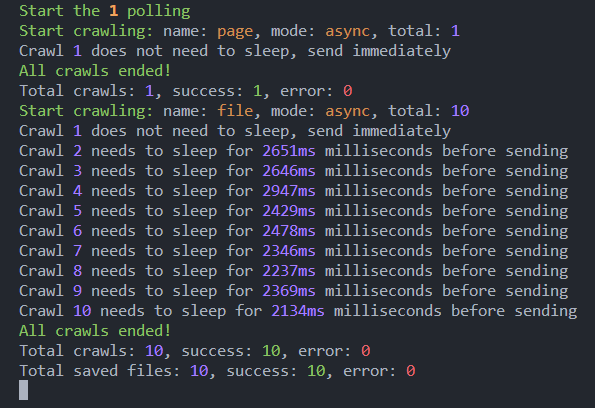
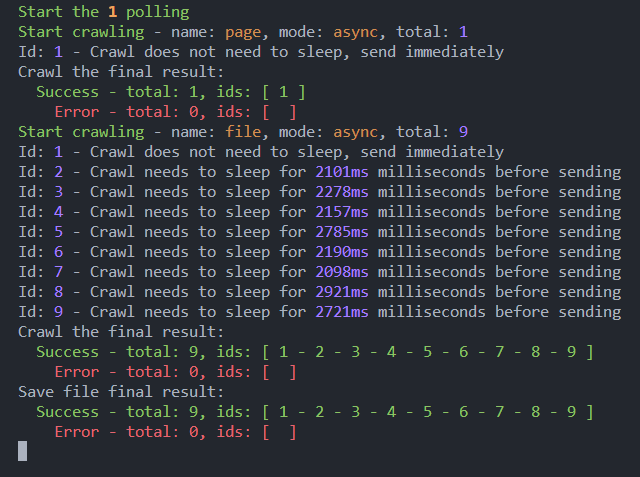
Chores: Adjustments

diff --git a/test/start/index.js b/test/start/index.js
@@ -1,1 +1,1 @@
-"use strict";var e=require("node:path"),t=require("node:fs"),r=require("node:fs/promises"),o=require("puppeteer"),n=require("chalk"),i=require("node:http"),s=require("node:https"),a=require("node:url"),u=require("https-proxy-agent");const c=console.log,l=n.hex("#a57fff"),f=n.green,m=n.red,h=n.yellow;function p(e){return void 0===e}function d(e){return"number"==typeof e}function g(e){return"object"==typeof e&&e&&!Array.isArray(e)}function y(e){return Array.isArray(e)}async function w(e,t,r,o){if(e&&o>1){const e=t?r:function(e,t=0){let r=Math.floor(Math.random()*e);for(;r<t;)r=Math.floor(Math.random()*e);return r}(r.max,r.min);c(`Id: ${l(o)} - Crawl needs to sleep for ${l(e+"ms")} milliseconds before sending`),await function(e){return new Promise((t=>setTimeout(t,e)))}(e)}else c(`Id: ${l(o)} - Crawl does not need to sleep, send immediately`)}async function C(e,t,r,o){const n=!p(t),i=d(t),s=[];for(const a of e){const{id:e}=a;await w(n,i,t,e),a.crawlCount++;const u=o(a,r).catch((e=>(a.errorQueue.push(e),!1))).then((e=>{!1!==e&&(a.isSuccess=!0,a.crawlSingleRes=e)}));s.push(u)}await Promise.all(s)}async function x(e,t,r,o){const n=!p(t),i=d(t);for(const s of e){const{id:e}=s;await w(n,i,t,e),s.crawlCount++;try{s.crawlSingleRes=await o(s,r),s.isSuccess=!0}catch(e){s.errorQueue.push(e)}}}function S(e,t,r){const o=e[t];e[t]=e[r],e[r]=o}function v(e){if(1===e.length)return e;const t=Math.floor(e.length/2),r=v(e.slice(0,t)),o=v(e.slice(t)),n=[];let i=0,s=0;for(;i<r.length&&s<o.length;)r[i]>=o[s]?(n.push(r[i]),i++):(n.push(o[s]),s++);return i<r.length&&n.push(...r.slice(i)),s<o.length&&n.push(...o.splice(s)),n}async function q(e,t,r,o,n,i){const s=(!r.every((e=>e.priority===r[0].priority))?v(r.map((e=>({...e,valueOf:()=>e.priority})))):r).map(((e,t)=>({id:t+1,isSuccess:!1,maxRetry:e.maxRetry,crawlCount:0,errorQueue:[],requestConfig:e,crawlSingleRes:null})));c(`${f("Start crawling")} - name: ${h(e)}, mode: ${h(t)}, total: ${l(s.length)} `);const a="async"===t?C:x;let u=s;for(;u.length;)if(await a(u,o,n,i),u=u.filter((e=>e.maxRetry&&!e.isSuccess&&e.crawlCount<=e.maxRetry)),u.length){const e=u.map((e=>e.id));c(h(`Ids to retry: [ ${e.join(" - ")} ]`))}const p=[],d=[];return s.forEach((e=>{e.isSuccess?p.push(e.id):d.push(e.id)})),c("Crawl the final result:"),c(f(`  Success - total: ${p.length}, ids: [ ${p.join(" - ")} ]`)),c(m(`    Error - total: ${d.length}, ids: [ ${d.join(" - ")} ]`)),s}function R(e,t){let r=e?`${e}`:"?";if(t)for(const e in t){r+=`&${e}=${t[e]}`}else r=e;return r}function T(e){const{protocol:t,hostname:r,port:o,pathname:n,search:c}=new a.URL(e.url),l="http:"===t,f={agent:e.proxy?u(e.proxy):l?new i.Agent:new s.Agent,protocol:t,hostname:r,port:o,path:n,search:R(c,e.params),method:e.method?.toLocaleUpperCase()??"GET",headers:{},timeout:e.timeout};return f.headers=function(e,t){const r={"User-Agent":"Mozilla/5.0 (Windows NT 10.0; Win64; x64) AppleWebKit/537.36 (KHTML, like Gecko) Chrome/109.0.0.0 Safari/537.36",...e.headers??{}};return"POST"===t.method&&e.data&&(r["Content-Type"]="application/json",r["Content-Length"]=Buffer.byteLength(e.data)),r}(e,f),f}async function $(e){const{requestConfig:t}=e;return await(r=t,new Promise(((e,t)=>{const o=p(r.data);r.data=o?r.data:JSON.stringify(r.data);const n=T(r);function a(t){const{statusCode:r,headers:o}=t,n=[];t.on("data",(e=>n.push(e))),t.on("end",(()=>{const t=Buffer.concat(n);e({statusCode:r,headers:o,data:t})}))}let u;u="http:"===n.protocol?i.request(n,a):s.request(n,a),u.on("timeout",(()=>{t(new Error(`Timeout ${r.timeout}ms`))})),u.on("error",(e=>{t(e)})),"POST"!==n.method||o||u.write(r.data),u.end()})));var r}function b(e){return y(e)?e.map((e=>g(e)?e:{url:e})):[g(e)?e:{url:e}]}function j(e,t,r){r.requestConfigs=t.map((t=>{let{url:o,timeout:n,proxy:i,maxRetry:s,priority:a}=t;return p(e.baseUrl)||(o=e.baseUrl+o),p(n)&&(n=p(r.timeout)?e.timeout:r.timeout),p(i)&&!p(e.proxy)&&(i=e.proxy),p(s)&&(s=p(r.maxRetry)?e.maxRetry:r.maxRetry),p(a)&&(a=0),{...t,url:o,timeout:n,proxy:i,maxRetry:s,priority:a}})),p(r.intervalTime)&&!p(e.intervalTime)&&(r.intervalTime=e.intervalTime)}function E(e){let t=null,r=null,n=!1,i=0;const s=new Map;async function a(e,r){const{id:o,requestConfig:n}=e,i=await t.newPage();await i.setViewport({width:1280,height:1024});let a=null;try{n.proxy?await t.createIncognitoBrowserContext({proxyServer:n.proxy}):await t.createIncognitoBrowserContext({proxyServer:void 0}),n.headers&&await i.setExtraHTTPHeaders(n.headers),n.cookies&&await i.setCookie(...function(e,t){const r=[];return"string"==typeof t?t.split("; ").forEach((t=>{const o=t.split("=");r.push({name:o[0],value:o[1],url:e})})):Array.isArray(t)?t.forEach((t=>{t.url||(t.url=e),r.push(t)})):"object"==typeof t&&t&&(t.url||(t.url=e),r.push(t)),r}(n.url,n.cookies)),a=await i.goto(n.url,{timeout:n.timeout})}catch(e){let t=s.get(r);throw t||(t=new Map,s.set(r,t)),t.get(o)||t.set(o,i),e}return{response:a,page:i}}return async function(u,c){const l=++i;n||(n=!0,r=o.launch().then((e=>{t=e}))),r&&(await r,r&&(r=null));const{requestConfigs:f,intervalTime:m}=function(e,t){const r={requestConfigs:[]},o=[];if(g(t)&&Object.hasOwn(t,"requestConfigs")){const{requestConfigs:e,timeout:n,cookies:i,intervalTime:s,maxRetry:a}=t;r.cookies=i,r.intervalTime=s,r.maxRetry=a,r.timeout=n,o.push(...b(e))}else{const e=b(t);o.push(...e)}return j(e,o,r),r.requestConfigs.forEach((e=>{const{cookies:t}=e;p(t)&&!p(r.cookies)&&(e.cookies=r.cookies)})),r}(e,u),h=(await q("page",e.mode,f,m,l,a)).map((e=>{const{id:r,isSuccess:o,maxRetry:n,crawlCount:i,errorQueue:a,crawlSingleRes:u}=e;let f=null;if(o&&u)f={browser:t,...u};else{const e=s.get(l).get(r);f={browser:t,response:null,page:e}}const m={id:r,isSuccess:o,maxRetry:n,crawlCount:i,retryCount:i-1,errorQueue:a,data:f};return c&&c(m),m}));return s.delete(l),y(u)||g(u)&&Object.hasOwn(u,"requestConfigs")?h:h[0]}}function O(e){return async function(t,r){const{requestConfigs:o,intervalTime:n}=function(e,t){const r={requestConfigs:[]},o=[];if(g(t)&&Object.hasOwn(t,"requestConfigs")){const{requestConfigs:e,timeout:n,intervalTime:i,maxRetry:s}=t;r.intervalTime=i,r.maxRetry=s,r.timeout=n,o.push(...b(e))}else{const e=b(t);o.push(...b(e))}return j(e,o,r),r}(e,t),i=(await q("data",e.mode,o,n,void 0,$)).map((e=>{const{id:t,isSuccess:o,maxRetry:n,crawlCount:i,errorQueue:s,crawlSingleRes:a}=e,u={id:t,isSuccess:o,maxRetry:n,crawlCount:i,retryCount:i-1,errorQueue:s,data:null};if(o&&a){const e=(a.headers["content-type"]??"").includes("text")?a.data.toString():JSON.parse(a.data.toString());u.data={...a,data:e}}return r&&r(u),u}));return y(t)||g(t)&&Object.hasOwn(t,"requestConfigs")?i:i[0]}}function k(o){return async function(n,i){const{requestConfigs:s,intervalTime:a,fileConfig:u}=function(e,t){const r={requestConfigs:[],timeout:t.timeout,intervalTime:t.intervalTime,maxRetry:t.maxRetry,fileConfig:t.fileConfig};return j(e,b(t.requestConfig),r),r.requestConfigs.forEach((e=>{p(e.storeDir)&&!p(t.fileConfig?.storeDir)&&(e.storeDir=t.fileConfig.storeDir),p(e.extension)&&!p(t.fileConfig?.extension)&&(e.extension=t.fileConfig.extension)})),r}(o,n),l=await q("file",o.mode,s,a,void 0,$),h=[],d=[],g=l.map((o=>{const{id:n,isSuccess:s,maxRetry:a,crawlCount:c,errorQueue:l,crawlSingleRes:f,requestConfig:m}=o,g={id:n,isSuccess:s,maxRetry:a,crawlCount:c,retryCount:c-1,errorQueue:l,data:null};if(s&&f){const o=f.headers["content-type"]??"";let s="",a="";s=p(m.fileName)?(new Date).getTime().toString():m.fileName,a=p(m.extension)?"."+o.split("/").pop():m.extension,p(m.storeDir)||t.existsSync(m.storeDir)||(y=m.storeDir,e.resolve(y).split(e.sep).reduce(((r,o,n)=>{const i=0!==n?e.join(r,o):o;return t.existsSync(i)||t.mkdirSync(i),i}),""));const c=m.storeDir??__dirname,l=e.resolve(c,s+a);let w=f.data;if(u?.beforeSave){const e=u.beforeSave({id:n,fileName:s,filePath:l,data:w});e&&(w=e)}const C=r.writeFile(l,w).catch((e=>{const t=`File save error at id ${n}: ${e.message}`;return d.push({message:t,valueOf:()=>n}),!0})).then((e=>{const t=f.data.length,r={isSuccess:!e,fileName:s,mimeType:o,size:t,filePath:l};g.data={...f,data:r},i&&i(g)}));h.push(C)}else i&&i(g);var y;return g}));var w;await Promise.all(h),(w=d,function e(t,r){if(t>=r)return;const o=w[r];let n=t,i=r-1;for(;n<=i;){for(;w[n]<o;)n++;for(;w[i]>o;)i--;n<=i&&(S(w,n,i),n++,i--)}S(w,n,r),e(t,n-1),e(n+1,r)}(0,w.length-1),w).forEach((e=>c(m(e.message))));const C=[],x=[];return g.forEach((e=>{e.data?.data.isSuccess?C.push(e.id):x.push(e.id)})),c("Save file final result:"),c(f(`  Success - total: ${C.length}, ids: [ ${C.join(" - ")} ]`)),c(m(`    Error - total: ${x.length}, ids: [ ${x.join(" - ")} ]`)),y(n.requestConfig)?g:g[0]}}function P(e,t){const{d:r,h:o,m:n}=e,i=(p(r)?0:1e3*r*60*60*24)+(p(o)?0:1e3*o*60*60)+(p(n)?0:1e3*n*60);let s=0;u();const a=setInterval(u,i);function u(){console.log(f(`Start the ${h.bold(++s)} polling`)),t(s,c)}function c(){clearInterval(a),console.log(f("Stop the polling"))}}const D=function(e){const t=function(e){const t=e||{};return t.mode||(t.mode="async"),p(e?.timeout)&&(t.timeout=1e4),p(e?.maxRetry)&&(t.maxRetry=0),t}(e);return function(e){return{crawlPage:E(e),crawlData:O(e),crawlFile:k(e),startPolling:P}}(t)}({timeout:1e4,intervalTime:{max:3e3,min:1e3},proxy:"http://localhost:14892"});D.crawlFile({requestConfig:[{url:"https://raw.githubusercontent.com/coder-hxl/airbnb-upload/master/area/4403.jpg",fileName:"4403",extension:".jpg"},{url:"http://127.0.0.1:5500/assets/cn/crawler.png",fileName:"crawler",storeDir:e.resolve(__dirname,"./upload/2/1")}],fileConfig:{storeDir:e.resolve(__dirname,"./upload"),beforeSave(e){console.log(e.fileName,e.filePath)}}}).then((e=>{e.forEach((e=>{console.log(e.id),e.errorQueue.forEach((e=>console.log(e.message)))}))}));
+"use strict";var e=require("node:fs"),t=require("node:fs/promises"),r=require("node:path"),n=require("puppeteer"),o=require("chalk"),i=require("node:http"),s=require("node:https"),a=require("node:url"),u=require("https-proxy-agent");const c=console.log,l=o.hex("#a57fff"),f=o.green,m=o.red,p=o.yellow;function h(e){return void 0===e}function d(e){return"number"==typeof e}function g(e){return"object"==typeof e&&e&&!Array.isArray(e)}function y(e){return Array.isArray(e)}async function w(e,t,r,n){if(e&&n>1){const e=t?r:function(e,t=0){let r=Math.floor(Math.random()*e);for(;r<t;)r=Math.floor(Math.random()*e);return r}(r.max,r.min);c(`Id: ${l(n)} - Crawl needs to sleep for ${l(e+"ms")} milliseconds before sending`),await function(e){return new Promise((t=>setTimeout(t,e)))}(e)}else c(`Id: ${l(n)} - Crawl does not need to sleep, send immediately`)}async function x(e,t,r,n){const o=!h(t),i=d(t),s=[];for(const a of e){const{id:e}=a;await w(o,i,t,e),a.crawlCount++;const u=n(a,r).catch((e=>(a.errorQueue.push(e),!1))).then((e=>{!1!==e&&(a.isSuccess=!0,a.crawlSingleRes=e)}));s.push(u)}await Promise.all(s)}async function C(e,t,r,n){const o=!h(t),i=d(t);for(const s of e){const{id:e}=s;await w(o,i,t,e),s.crawlCount++;try{s.crawlSingleRes=await n(s,r),s.isSuccess=!0}catch(e){s.errorQueue.push(e)}}}function S(e,t,r){const n=e[t];e[t]=e[r],e[r]=n}function v(e){if(1===e.length)return e;const t=Math.floor(e.length/2),r=v(e.slice(0,t)),n=v(e.slice(t)),o=[];let i=0,s=0;for(;i<r.length&&s<n.length;)r[i]>=n[s]?(o.push(r[i]),i++):(o.push(n[s]),s++);return i<r.length&&o.push(...r.slice(i)),s<n.length&&o.push(...n.splice(s)),o}async function q(e,t,r,n,o,i){const s=(!r.every((e=>e.priority===r[0].priority))?v(r.map((e=>({...e,valueOf:()=>e.priority})))):r).map(((e,t)=>({id:t+1,isSuccess:!1,maxRetry:e.maxRetry,crawlCount:0,errorQueue:[],requestConfig:e,crawlSingleRes:null})));c(`${f("Start crawling")} - name: ${p(e)}, mode: ${p(t)}, total: ${l(s.length)} `);const a="async"===t?x:C;let u=s;for(;u.length;)if(await a(u,n,o,i),u=u.filter((e=>e.maxRetry&&!e.isSuccess&&e.crawlCount<=e.maxRetry)),u.length){const e=u.map((e=>e.id));c(p(`Ids to retry: [ ${e.join(" - ")} ]`))}const h=[],d=[];return s.forEach((e=>{e.isSuccess?h.push(e.id):d.push(e.id)})),c("Crawl the final result:"),c(f(`  Success - total: ${h.length}, ids: [ ${h.join(" - ")} ]`)),c(m(`    Error - total: ${d.length}, ids: [ ${d.join(" - ")} ]`)),s}function R(e,t){let r=e?`${e}`:"?";if(t)for(const e in t){r+=`&${e}=${t[e]}`}else r=e;return r}function $(e){const{protocol:t,hostname:r,port:n,pathname:o,search:c}=new a.URL(e.url),l="http:"===t,f={agent:e.proxy?u(e.proxy):l?new i.Agent:new s.Agent,protocol:t,hostname:r,port:n,path:o,search:R(c,e.params),method:e.method?.toLocaleUpperCase()??"GET",headers:{},timeout:e.timeout};return f.headers=function(e,t){const r={"User-Agent":"Mozilla/5.0 (Windows NT 10.0; Win64; x64) AppleWebKit/537.36 (KHTML, like Gecko) Chrome/109.0.0.0 Safari/537.36",...e.headers??{}};return"POST"===t.method&&e.data&&(r["Content-Type"]="application/json",r["Content-Length"]=Buffer.byteLength(e.data)),r}(e,f),f}async function T(e){const{requestConfig:t}=e;return await(r=t,new Promise(((e,t)=>{const n=h(r.data);r.data=n?r.data:JSON.stringify(r.data);const o=$(r);function a(t){const{statusCode:r,headers:n}=t,o=[];t.on("data",(e=>o.push(e))),t.on("end",(()=>{const t=Buffer.concat(o);e({statusCode:r,headers:n,data:t})}))}let u;u="http:"===o.protocol?i.request(o,a):s.request(o,a),u.on("timeout",(()=>{t(new Error(`Timeout ${r.timeout}ms`))})),u.on("error",(e=>{t(e)})),"POST"!==o.method||n||u.write(r.data),u.end()})));var r}function b(e){return y(e)?e.map((e=>g(e)?e:{url:e})):[g(e)?e:{url:e}]}function O(e,t,r){r.requestConfigs=t.map((t=>{let{url:n,timeout:o,proxy:i,maxRetry:s,priority:a}=t;return h(e.baseUrl)||(n=e.baseUrl+n),h(o)&&(o=h(r.timeout)?e.timeout:r.timeout),h(i)&&(h(r.proxy)?h(e.proxy)||(i=e.proxy):i=r.proxy),h(s)&&(s=h(r.maxRetry)?e.maxRetry:r.maxRetry),h(a)&&(a=0),{...t,url:n,timeout:o,proxy:i,maxRetry:s,priority:a}})),h(r.intervalTime)&&!h(e.intervalTime)&&(r.intervalTime=e.intervalTime)}function j(e){let t=null,r=null,o=!1,i=0;const s=new Map;async function a(e,r){const{id:n,requestConfig:o}=e,i=await t.newPage();await i.setViewport({width:1280,height:1024});let a=null;try{o.proxy?await t.createIncognitoBrowserContext({proxyServer:o.proxy}):await t.createIncognitoBrowserContext({proxyServer:void 0}),o.headers&&await i.setExtraHTTPHeaders(o.headers),o.cookies&&await i.setCookie(...function(e,t){const r=[];return"string"==typeof t?t.split("; ").forEach((t=>{const n=t.split("=");r.push({name:n[0],value:n[1],url:e})})):Array.isArray(t)?t.forEach((t=>{t.url||(t.url=e),r.push(t)})):"object"==typeof t&&t&&(t.url||(t.url=e),r.push(t)),r}(o.url,o.cookies)),a=await i.goto(o.url,{timeout:o.timeout})}catch(e){let t=s.get(r);throw t||(t=new Map,s.set(r,t)),t.get(n)||t.set(n,i),e}return{response:a,page:i}}return async function(u,c){const l=++i;o||(o=!0,r=n.launch().then((e=>{t=e}))),r&&(await r,r&&(r=null));const{requestConfigs:f,intervalTime:m}=function(e,t){const r={requestConfigs:[]},n=[];if(g(t)&&Object.hasOwn(t,"requestConfigs")){const{requestConfigs:e,proxy:o,timeout:i,cookies:s,intervalTime:a,maxRetry:u}=t;r.proxy=o,r.cookies=s,r.intervalTime=a,r.maxRetry=u,r.timeout=i,n.push(...b(e))}else{const e=b(t);n.push(...e)}return O(e,n,r),h(r.cookies)||r.requestConfigs.forEach((e=>{const{cookies:t}=e;h(t)&&!h(r.cookies)&&(e.cookies=r.cookies)})),r}(e,u),p=(await q("page",e.mode,f,m,l,a)).map((e=>{const{id:r,isSuccess:n,maxRetry:o,crawlCount:i,errorQueue:a,crawlSingleRes:u}=e;let f=null;if(n&&u)f={browser:t,...u};else{const e=s.get(l).get(r);f={browser:t,response:null,page:e}}const m={id:r,isSuccess:n,maxRetry:o,crawlCount:i,retryCount:i-1,errorQueue:a,data:f};return c&&c(m),m}));return s.delete(l),y(u)||g(u)&&Object.hasOwn(u,"requestConfigs")?p:p[0]}}function k(e){return async function(t,r){const{requestConfigs:n,intervalTime:o}=function(e,t){const r={requestConfigs:[]},n=[];if(g(t)&&Object.hasOwn(t,"requestConfigs")){const{requestConfigs:e,proxy:o,timeout:i,intervalTime:s,maxRetry:a}=t;r.proxy=o,r.intervalTime=s,r.maxRetry=a,r.timeout=i,n.push(...b(e))}else{const e=b(t);n.push(...b(e))}return O(e,n,r),r}(e,t),i=(await q("data",e.mode,n,o,void 0,T)).map((e=>{const{id:t,isSuccess:n,maxRetry:o,crawlCount:i,errorQueue:s,crawlSingleRes:a}=e,u={id:t,isSuccess:n,maxRetry:o,crawlCount:i,retryCount:i-1,errorQueue:s,data:null};if(n&&a){const e=(a.headers["content-type"]??"").includes("text")?a.data.toString():JSON.parse(a.data.toString());u.data={...a,data:e}}return r&&r(u),u}));return y(t)||g(t)&&Object.hasOwn(t,"requestConfigs")?i:i[0]}}function P(n){return async function(o,i){const{requestConfigs:s,intervalTime:a,fileConfig:u}=function(e,t){const r={requestConfigs:[]},n=[];if(g(t)&&Object.hasOwn(t,"requestConfigs")){const{requestConfigs:e,proxy:o,timeout:i,intervalTime:s,maxRetry:a,fileConfig:u}=t;r.proxy=o,r.intervalTime=s,r.maxRetry=a,r.timeout=i,r.fileConfig=u,n.push(...b(e))}else n.push(...y(t)?t:[t]);return O(e,n,r),h(r.fileConfig?.storeDir)&&h(r.fileConfig?.extension)||r.requestConfigs.forEach((e=>{h(e.storeDir)&&!h(r.fileConfig?.storeDir)&&(e.storeDir=r.fileConfig.storeDir),h(e.extension)&&!h(r.fileConfig?.extension)&&(e.extension=r.fileConfig.extension)})),r}(n,o),l=await q("file",n.mode,s,a,void 0,T),p=[],d=[],w=l.map((n=>{const{id:o,isSuccess:s,maxRetry:a,crawlCount:c,errorQueue:l,crawlSingleRes:f,requestConfig:m}=n,g={id:o,isSuccess:s,maxRetry:a,crawlCount:c,retryCount:c-1,errorQueue:l,data:null};if(s&&f){const n=f.headers["content-type"]??"",s=m.fileName??`${o}-${(new Date).getTime()}`,a=m.extension??`.${n.split("/").pop()}`;h(m.storeDir)||e.existsSync(m.storeDir)||(y=m.storeDir,r.resolve(y).split(r.sep).reduce(((t,n,o)=>{const i=0!==o?r.join(t,n):n;return e.existsSync(i)||e.mkdirSync(i),i}),""));const c=m.storeDir??__dirname,l=r.resolve(c,s+a);let w=f.data;if(u?.beforeSave){const e=u.beforeSave({id:o,fileName:s,filePath:l,data:w});e&&(w=e)}const x=t.writeFile(l,w).catch((e=>{const t=`File save error at id ${o}: ${e.message}`;return d.push({message:t,valueOf:()=>o}),!0})).then((e=>{const t=f.data.length,r=!e;g.data={...f,data:{isSuccess:r,fileName:s,fileExtension:a,mimeType:n,size:t,filePath:l}},i&&i(g)}));p.push(x)}else i&&i(g);var y;return g}));var x;await Promise.all(p),(x=d,function e(t,r){if(t>=r)return;const n=x[r];let o=t,i=r-1;for(;o<=i;){for(;x[o]<n;)o++;for(;x[i]>n;)i--;o<=i&&(S(x,o,i),o++,i--)}S(x,o,r),e(t,o-1),e(o+1,r)}(0,x.length-1),x).forEach((e=>c(m(e.message))));const C=[],v=[];return w.forEach((e=>{e.data?.data.isSuccess?C.push(e.id):v.push(e.id)})),c("Save file final result:"),c(f(`  Success - total: ${C.length}, ids: [ ${C.join(" - ")} ]`)),c(m(`    Error - total: ${v.length}, ids: [ ${v.join(" - ")} ]`)),y(o)||g(o)&&Object.hasOwn(o,"requestConfigs")?w:w[0]}}function E(e,t){const{d:r,h:n,m:o}=e,i=(h(r)?0:1e3*r*60*60*24)+(h(n)?0:1e3*n*60*60)+(h(o)?0:1e3*o*60);let s=0;u();const a=setInterval(u,i);function u(){console.log(f(`Start the ${p.bold(++s)} polling`)),t(s,c)}function c(){clearInterval(a),console.log(f("Stop the polling"))}}const D=function(e){const t=function(e){const t=e||{};return t.mode||(t.mode="async"),h(e?.timeout)&&(t.timeout=1e4),h(e?.maxRetry)&&(t.maxRetry=0),t}(e);return function(e){return{crawlPage:j(e),crawlData:k(e),crawlFile:P(e),startPolling:E}}(t)}({intervalTime:{max:3e3,min:2e3}});D.startPolling({d:1},(async(e,t)=>{const r=await D.crawlPage("https://www.bilibili.com/guochuang/"),{page:n}=r.data,o=await n.$$eval(".chief-recom-item img",(e=>e.map((e=>e.src))));await D.crawlFile({requestConfigs:o,fileConfig:{storeDir:"./upload"}}),n.close()}));

diff --git a/test/start/index.ts b/test/start/index.ts
@@ -1,11 +1,11 @@
-import path from 'node:path'
-import xCrawl from 'x-crawl'
+// import path from 'node:path'
+// import xCrawl from 'x-crawl'
 
-const testXCrawl = xCrawl({
-  timeout: 10000,
-  intervalTime: { max: 3000, min: 1000 },
-  proxy: 'http://localhost:14892'
-})
+// const testXCrawl = xCrawl({
+//   timeout: 10000,
+//   intervalTime: { max: 3000, min: 1000 },
+//   proxy: 'http://localhost:14892'
+// })
 
 // testXCrawl
 //   .crawlData({
@@ -21,31 +21,30 @@ const testXCrawl = xCrawl({
 //     })
 //   })
 
-testXCrawl
-  .crawlFile({
-    requestConfig: [
-      {
-        url: 'https://raw.githubusercontent.com/coder-hxl/airbnb-upload/master/area/4403.jpg',
-        fileName: '4403',
-        extension: '.jpg'
-      },
-      {
-        url: 'http://127.0.0.1:5500/assets/cn/crawler.png',
-        fileName: 'crawler',
-        storeDir: path.resolve(__dirname, './upload/2/1')
-      }
-    ],
-    fileConfig: {
-      storeDir: path.resolve(__dirname, './upload'),
-      beforeSave(info) {
-        console.log(info.fileName, info.filePath)
-      }
-    }
-  })
-  .then((res) => {
-    res.forEach((item) => {
-      console.log(item.id)
+// 1.导入模块 ES/CJS
+import xCrawl from 'x-crawl'
 
-      item.errorQueue.forEach((item) => console.log(item.message))
-    })
+// 2.创建一个爬虫实例
+const myXCrawl = xCrawl({ intervalTime: { max: 3000, min: 2000 } })
+
+// 3.设置爬取任务
+// 调用 startPolling API 开始轮询功能，每隔一天会调用回调函数
+myXCrawl.startPolling({ d: 1 }, async (count, stopPolling) => {
+  // 调用 crawlPage API 爬取 Page
+  const res = await myXCrawl.crawlPage('https://www.bilibili.com/guochuang/')
+  const { page } = res.data
+
+  // 设置请求配置，获取轮播图片的 URL
+  const requestConfigs = await page.$$eval('.chief-recom-item img', (imgEls) =>
+    imgEls.map((item) => item.src)
+  )
+
+  // 调用 crawlFile API 爬取图片
+  await myXCrawl.crawlFile({
+    requestConfigs,
+    fileConfig: { storeDir: './upload' }
   })
+
+  // 关闭页面
+  page.close()
+})

diff --git a/jest.config.js b/jest.config.js
@@ -2,5 +2,6 @@
 module.exports = {
   preset: 'ts-jest',
   testEnvironment: 'node',
-  collectCoverage: true
+  collectCoverage: true,
+  detectOpenHandles: true
 }

diff --git a/CHANGELOG.md b/CHANGELOG.md
@@ -1,3 +1,41 @@
+# [v5.0.0](https://github.com/coder-hxl/x-crawl/compare/v4.0.1...v5.0.0) (2023-04-06)
+
+### 🚨 Breaking Changes
+
+- For configuration, major changes have been made to each crawling API configuration, and the same API supports more crawling configuration methods, each of which has its own significance.
+- For the result, the result of each request will be wrapped in an object, which provides information about the result of this request, such as: id, result, success, maximum retry, number of retries, collected error information, etc. . Automatically determine whether the return value is wrapped in an array according to the configuration method you choose, and the type is perfectly matched in TS.
+- For obtaining results through the callback function, the callback is no longer executed after a single request is completed like the v4.x version, but will be executed sequentially after the crawling is completed, which will not block subsequent crawling.
+
+### 🚀 Features
+
+- Added a retry mechanism, which can be set for all crawling requests, for a single crawling request, and for a single request.
+- A new priority queue is added to use priority crawling according to the priority of a single request.
+- For more configurations that may be reused, you can set the baseConfig settings passed in when requesting configuration, API crawling configuration, and generating crawler instances, such as: timeout, proxy, intervalTime, etc., and the weight is: requestConfig > APIConfig > baseConfig.
+- For crawlFile API, file path, name, suffix and other information can be set individually for each file. Added the beforeSave life cycle function before saving the file. You can get the file data of the Buffer type, and you can perform operations such as compression on the data in the callback. The returned new Buffer data will replace the original data and write it into the file.
+- Update the output of crawling on the console, and collect the error information generated by crawling into an error queue. After the crawling is completed, you can get the error message queue through the return value.
+
+---
+
+### 🚨 重大改变
+
+- 对于配置，每个爬取 API 配置发生重大改变，同一个 API 支持更多爬取配置方式，每种方式都有其存在的意义。
+- 对于结果，每个请求的结果将统一使用对象包裹着，该对象提供了关于这次请求结果的信息，比如：id、结果、是否成功、最大重试、重试次数、收集到错误信息等。自动根据你选用的配置方式决定返回值是否包裹在一个数组中，在 TS 中类型完美适配。
+- 对于通过回调函数方式获取结果，该回调不再像 v4.x 版本在单个请求完成后执行，而是将会在爬取完成后按顺序执行，这将不会阻塞后续的爬取。
+
+### 🚀 特征
+
+- 新增失败重试，可针对所有爬取的请求设置，针对单次爬取的请求设置，针对单个请求设置进行失败重试。
+- 新增优先队列，根据单个请求的优先级使用优先爬取。
+- 对更多可能复用的配置可以在请求配置、API 爬取配置、生成爬虫实例时传入的 baseConfig 设置，比如：timeout、proxy、intervalTime 等，权重为：requestConfig > APIConfig > baseConfig。
+- 对 crawlFile API 可单独为每个文件设置文件路径、名字、后缀等信息。新增 beforeSave 文件保存前生命周期函数，可拿到 Buffer 类型的文件数据，可在回调内对数据进行压缩等操作，返回新的 Buffer 数据会替代原先的数据写入文件中。
+- 对爬取在控制台的输出更新，对爬取产生的报错信息分别收集到一个的错误队列中，爬取完成后可通过返回值拿到该错误信息队列。
+
+# [v4.0.1](https://github.com/coder-hxl/x-crawl/compare/v4.0.0...v4.0.1) (2023-03-30)
+
+### 🐞 Bug Fixes
+
+- The page is not closed when there is an error in the crawlPage API
+
 # [v4.0.0](https://github.com/coder-hxl/x-crawl/compare/v3.3.0...v4.0.0) (2023-03-27)
 
 ### 🚨 Breaking Changes
